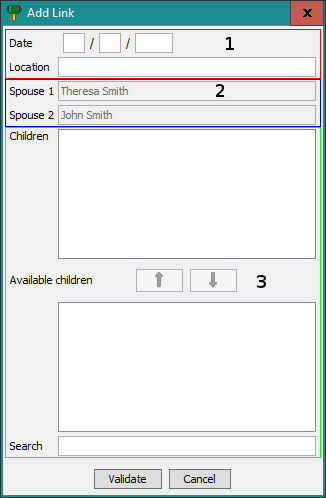
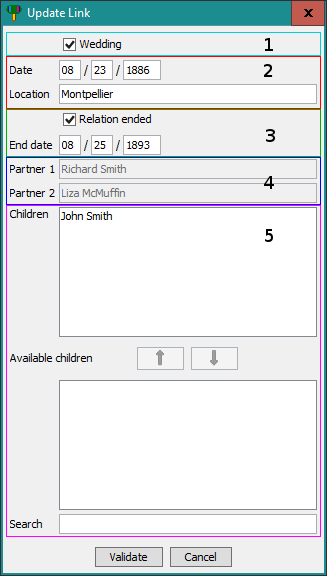
doc: finished updating help doc

Changed region(s): [[0.0, 0.0, 1.0, 1.0], [0.7975, 0.3916, 0.8589, 0.4217]]

diff --git a/Genealogy/help-doc/en_US/getting_started.links.add.html b/Genealogy/help-doc/en_US/getting_started.links.add.html
@@ -10,21 +10,26 @@
       <li>or click <span class="button"><img src="../images/add_link_32.png"> Add Link...</span>;</li>
       <li>or press <span class="key-stroke">Ctrl+L</span></li>
     </ul>
-    Now, select the first card (if it is not already) you want to connect, then click the second one.
+    Now, select the first card you want to connect, then click the second one.
     You should now be seeing this form:<br>
     <img class="center" src="../images/add_link_dialog-en_US.png"><br>
-    The first two fields (1) are the date and location of the wedding. The date can be incomplete.<br>
-    The two fields below (2) contain the names of the couple.<br>
-    Zone (3) lets you add/remove children from the marriage. To add children, select the items from
-    the bottom list then click the <img src="../images/arrow_up.png"> button. To remove added children,
-    select the items in the top list then click the <img src="../images/arrow_down.png"> button.
+    This first checkbox (1) lets you indicate if the relationship is a wedding.<br>
+    The following two fields (2) are the start date and location of the relationship. The date can
+    be incomplete.<br>
+    The checkbox in zone (3) is used to tell if the relation has ended. If it is checked, the date
+    field bellow will be enabled.<br>
+    The two fields below (4) contain the names of the couple.<br>
+    Zone (5) lets you add/remove children from the relationship. To add children, select the items
+    from the bottom list then click the <img src="../images/arrow_up.png"> button. To remove added
+    children, select the items in the top list then click the <img src="../images/arrow_down.png">
+    button. You can search for specific people with the searchbar at the bottom.
   </p>
   <p>
     Once you're finished, click <span class="button">Validate</span> to create the link. If you
     clicked before finishing, don't worry you can come back and edit it later.
   </p>
   <p>
-    Now, there should be line between the two cards and the children.
+    Now, there should be lines between the two cards and the children.
   </p>
   <p>Next topic: <a href="getting_started.links.update.html">Editing links</a></p>
 </body>

diff --git a/Genealogy/help-doc/fr_FR/getting_started.links.add.html b/Genealogy/help-doc/fr_FR/getting_started.links.add.html
@@ -10,16 +10,20 @@
       <li>ou cliquer sur <span class="button"><img src="../images/add_link_32.png"> Ajouter un lien...</span>&nbsp;;</li>
       <li>ou appuyer sur <span class="key-stroke">Ctrl+L</span></li>
     </ul>
-    Maintenant, sélectionnez la première fiche à connecter (si elle n'est pas déjà sélectionnée),
-    puis cliquez sur la seconde.
+    Maintenant, sélectionnez la première fiche à connecter, puis cliquez sur la seconde.
     Vous devriez voir cette fenêtre&nbsp;:<br>
     <img class="center" src="../images/add_link_dialog-fr_FR.png"><br>
-    Les deux premiers champs (1) sont la date et le lieu du mariage. La date peut être incomplète.<br>
-    Les deux champs en-dessous (2) contiennent les noms du couple.<br>
-    La zone (3) vous permet d'ajouter/enlever des enfants issus du mariage. Pour ajouter des enfants,
-    sélectionnez les items dans la liste du bas puis cliquez sur le bouton <img src="../images/arrow_up.png">.
-    Pour supprimer des enfants, sélectionnez les items de la liste du haut puis cliquez sur le
-    bouton <img src="../images/arrow_down.png">.
+    Cette première case (1) permet d'indiquer si la relation est un mariage.<br>
+    Les deux champs suivants (2) sont la date et le lieu de début de la relation. La date peut être
+    incomplète.<br>
+    La case dans la zone (3) permet d'indiquer si la relation a été rompue. Si elle est cochée, le
+    champ en-dessous est dégrisé.<br>
+    Les deux champs en-dessous (4) contiennent les noms du couple.<br>
+    La zone (5) vous permet d'ajouter/enlever des enfants issus de la relation. Pour ajouter des
+    enfants, sélectionnez les items dans la liste du bas puis cliquez sur le bouton
+    <img src="../images/arrow_up.png">. Pour supprimer des enfants, sélectionnez les items de la
+    liste du haut puis cliquez sur le bouton <img src="../images/arrow_down.png">. Vous pouvez
+    rechercher une personne particulière grâce à la barre de recherche tout en bas.
   </p>
   <p>
     Une fois que vous avez terminé, cliquez sur <span class="button">Valider</span> pour créer le

diff --git a/Genealogy/help-doc/fr_FR/getting_started.links.html b/Genealogy/help-doc/fr_FR/getting_started.links.html
@@ -4,21 +4,22 @@
 <body>
   <h1>Liens</h1>
   <p>
-    Un lien est la représentation d'un mariage. Il est représenté par une ligne reliant deux fiches.
-    La couleur par défaut est noire. Une ligne <span color="blue">bleue</span> (défaut) représente
-    un lien de parenté. Si une relation a été rompue (divorce, etc.) le trait est en pointillés.<br>
+    Un lien est la représentation d'une relation. Il est représenté par une ligne reliant deux
+    fiches. La couleur par défaut est noire. Une ligne <span color="blue">bleue</span> (défaut)
+    représente un lien de parenté. Si une relation a été rompue (divorce, etc.) le trait est en
+    pointillés.<br>
     Exemple&nbsp;:<br>
     <img src="../images/links_example.png"><br>
-    Ici, la ligne noire représente le mariage et la ligne bleue est connectée au seul
+    Ici, la ligne noire représente le lien de mariage et la ligne bleue est connectée au seul
     enfant du couple.
   </p>
   <p>
     Lorsqu'un lien est survolé avec la souris, il devient <span color="red">rouge</span> par défaut.
-    Un lien sélectionné apparaîtra <span color="#00ff00">vert</span> (couleur par défau
+    Un lien sélectionné apparaîtra <span color="#00ff00">vert</span> (couleur par défaut).<br>
     Les couleurs peuvent être modifiées dans le menu <span class="menu">Options</span>.
   </p>
   <p>
-    Les trois prochains sujets expliquent comment ajouter, éditer et supprimer un lien.
+    Les quatre prochains sujets expliquent comment visualiser, ajouter, éditer et supprimer un lien.
   </p>
   <h2>Contenu</h2>
   <ul>

diff --git a/Genealogy/help-doc/eo/getting_started.links.add.html b/Genealogy/help-doc/eo/getting_started.links.add.html
@@ -10,14 +10,19 @@
       <li>aŭ alklaku <span class="button"><img src="../images/add_link_32.png"> Aldoni ligilo...</span>;</li>
       <li>aŭ subtenu <span class="key-stroke">Ctrl+L</span></li>
     </ul>
-    Nun, selektu la unuan karton ke, vi volas konekti (se ne jam estas), post, alklaku la duan.
+    Nun, selektu la unuan karton, ke vi volas konekti, post, alklaku la duan.
     Vi vidus tiu fenestro:<br>
     <img class="center" src="../images/add_link_dialog-eo.png"><br>
-    La du unuaj tekstujoj (1) estas la edziĝdato kaj la edziĝejo. La dato povas esti nekompleta.<br>
-    La sube du tekstujoj (2) enhavas la nomojn de la geedzoj.<br>
+    Tiu unua markobutono (1) indikas ĉu la rilaton estas edziĝo.<br>
+    La du sekvantaj tekstujoj (2) estas la komencodato kaj komencejo de la rilato. La dato povas
+    esti nekompleta.<br>
+    La markobutono en la zono (3) indikas ĉu la rilato estas finita. Se estas aktiva, la sube
+    tekstujo estas aktiva.<br>
+    La sube du tekstujoj (4) enhavas la nomojn de la gekunulinoj.<br>
     En la zono (3) vi povas aldoni/forigi infanoj. Por aldoni infano, selektu la elementojn en la
     suba listo kaj alklaku la <img src="../images/arrow_up.png"> butonon. Por forigi infano,
-    selektu la elementojn en la supre listo kaj alklaku la <img src="../images/arrow_down.png"> butonon.
+    selektu la elementojn en la supre listo kaj alklaku la <img src="../images/arrow_down.png">
+    butonon.
   </p>
   <p>
     Iam vi finis, alklaku <span class="button">Validigi</span> por krei la ligilo. Se vi alklakis

diff --git a/Genealogy/help-doc/eo/getting_started.links.html b/Genealogy/help-doc/eo/getting_started.links.html
@@ -4,8 +4,8 @@
 <body>
   <h1>Ligiloj</h1>
   <p>
-    Ligilo representas la geedzecon inter du personoj. Estas linio ke, konektas du kartojn.
-    La defaŭlta koloro estas nigra. Gepatra interrilato estas representata kun <span color="blue">blua</span>
+    Ligilo representas rilaton inter du personoj. Estas linio, ke konektas du kartojn.
+    La defaŭlta koloro estas nigra. Gepatra interrilato estas representata kiel <span color="blue">blua</span>
     linio (defaŭlta). Se rilato finitus (eksedziĝo, k.t.p.) la linio estus punktita.<br>
     Ekzemplo:<br>
     <img src="../images/links_example.png"><br>
@@ -17,7 +17,7 @@
     La koloroj estas ŝanĝeblaj en la <span class="menu">Opcioj</span> menuo.
   </p>
   <p>
-    La sekva tri temoj eksplikas kiel vi povas aldoni, eldoni aŭ forigi ligilo.
+    La sekva kvar temoj eksplikas kiel vi povas montri, aldoni, eldoni kaj forigi ligilon.
   </p>
   <h2>Enhavo</h2>
   <ul>

diff --git a/Genealogy/help-doc/fr_FR/getting_started.cards.delete.html b/Genealogy/help-doc/fr_FR/getting_started.cards.delete.html
@@ -11,10 +11,10 @@
       <li>ou cliquer sur <span class="button"><img src="../images/delete_card_32.png"> Supprimer une fiche</span>&nbsp;;</li>
       <li>ou appuyer sur <span class="key-stroke">Supprimer</span></li>
     </ul>
-    Vous aller devoir confirmer l'action. Clique sur <span class="button">Oui</span>. La fiche
-    devrait avoir disparu de l'Espace de travail.<br>
+    Vous allez devoir confirmer l'action. Cliquez sur <span class="button">Oui</span>. La fiche
+    devrait avoir disparu de l'Espace de travail, ainsi que ses relations.<br>
     Si la fiche était liée à une autre, le lien est lui ausi supprimé.<br>
-    <b>N.B.&nbsp;: une fois la fiche supprimée, elle est perdue définitivement et ne peut plus être
+    <b>N.B.&nbsp;: une fois la fiche supprimée, elle est définitivement perdue et ne peut plus être
     récupérée.</b>
   </p>
   <h2>En rapport</h2>

diff --git a/Genealogy/help-doc/fr_FR/getting_started.links.details.html b/Genealogy/help-doc/fr_FR/getting_started.links.details.html
@@ -1,0 +1,20 @@
+<!doctype html>
+
+<html>
+<body>
+  <h1>Vue détaillée</h1>
+  <p>
+    Vous pouvez visualiser les informations détaillées d'un lien en double-cliquant dessus.<br>
+    <img src="../images/link_detailed_view-fr_FR.png"><br>
+    Les zones sont détaillées ci-dessus&nbsp;:
+    <ol>
+      <li>indique si la relation est un mariage&nbsp;;</li>
+      <li>le nom complet des deux conjoints&nbsp;;</li>
+      <li>la date et le lieu du début de la relation&nbsp;;</li>
+      <li><img src="../images/heart_broken.png">&nbsp;: si la relation a été rompue, la date de rupture&nbsp;;</li>
+      <li><img src="../images/baby.png">&nbsp;: la liste de tout les enfants&nbsp;;</li>
+    </ol>
+  </p>
+  <p>Prochain sujet&nbsp;: <a href="getting_started.links.add.html">Ajouter un lien</a></p>
+</body>
+</html>

diff --git a/Genealogy/help-doc/en_US/getting_started.links.details.html b/Genealogy/help-doc/en_US/getting_started.links.details.html
@@ -1,0 +1,20 @@
+<!doctype html>
+
+<html>
+<body>
+  <h1>Detailed view</h1>
+  <p>
+    You can view detailed information for each link by double-clicking it.<br>
+    <img src="../images/link_detailed_view-en_US.png"><br>
+    The zones are detailled bellow:
+    <ol>
+      <li>tells if the relationship is a wedding;</li>
+      <li>full names of the two partners;</li>
+      <li>start date and location of the relationship;</li>
+      <li><img src="../images/heart_broken.png">: if the relation has ended, the date when it ended;</li>
+      <li><img src="../images/baby.png">: list of all children;</li>
+    </ol>
+  </p>
+  <p>Next topic: <a href="getting_started.links.add.html">Adding links</a></p>
+</body>
+</html>

diff --git a/Genealogy/help-doc/eo/getting_started.links.details.html b/Genealogy/help-doc/eo/getting_started.links.details.html
@@ -1,0 +1,20 @@
+<!doctype html>
+
+<html>
+<body>
+  <h1>Detala vido</h1>
+  <p>
+    Vi povas vidi la detalajn informojn pri ligilo duobla-klakante.<br>
+    <img src="../images/link_detailed_view-eo.png"><br>
+    La zonoj estas detalaj ĉi sube:
+    <ol>
+      <li>tiu montras ĉu la rilaton estas edziĝo;</li>
+      <li>la kompleta nomo de la du gekunulinoj;</li>
+      <li>la komencodato kaj ejo de la rilato;</li>
+      <li><img src="../images/heart_broken.png">: se la rilato estas finita, la finodato;</li>
+      <li><img src="../images/baby.png">: la listo de la infanoj;</li>
+    </ol>
+  </p>
+  <p>Sekva temo: <a href="getting_started.links.add.html">Aldoni ligilo</a></p>
+</body>
+</html>

diff --git a/Genealogy/help-doc/eo/getting_started.cards.delete.html b/Genealogy/help-doc/eo/getting_started.cards.delete.html
@@ -11,9 +11,9 @@
       <li>aŭ alklaku <span class="button"><img src="../images/delete_card_32.png"> Forigi karto</span>;</li>
       <li>aŭ subtenu <span class="key-stroke">Forigi</span></li>
     </ul>
-    Vi devus konfirmi la ago. Alklaku <span class="button">Jes</span>. La karto devus esti forigita
-    el la Stablo.<br>
-    <b>N.B.: iam la karto estas forigita, ĝi estas definitive perdita.</b>
+    Vi devus konfirmi la ago. Alklaku <span class="button">Jes</span>. La karto kaj sia rilatoj
+    devus esti forigita el la Stablo.<br>
+    <b>N.B.: iam la karto estas forigita, ĝi eterne estas perdita.</b>
   </p>
   <h2>Rilatita</h2>
   <p><a href="getting_started.links.html">Ligiloj</a></p>

diff --git a/Genealogy/help-doc/en_US/getting_started.cards.delete.html b/Genealogy/help-doc/en_US/getting_started.cards.delete.html
@@ -13,7 +13,7 @@
     </ul>
     You should be asked to confirm the action. Click <span class="button">Yes</span>. The card
     should be removed from the Workbench.<br>
-    If the card was linked to another, the link is also deleted.<br>
+    If the card was linked to another, as are all its relations.<br>
     <b>N.B: once a card is removed, it is lost forever and cannot be retrieved.</b>
   </p>
   <h2>Related</h2>
